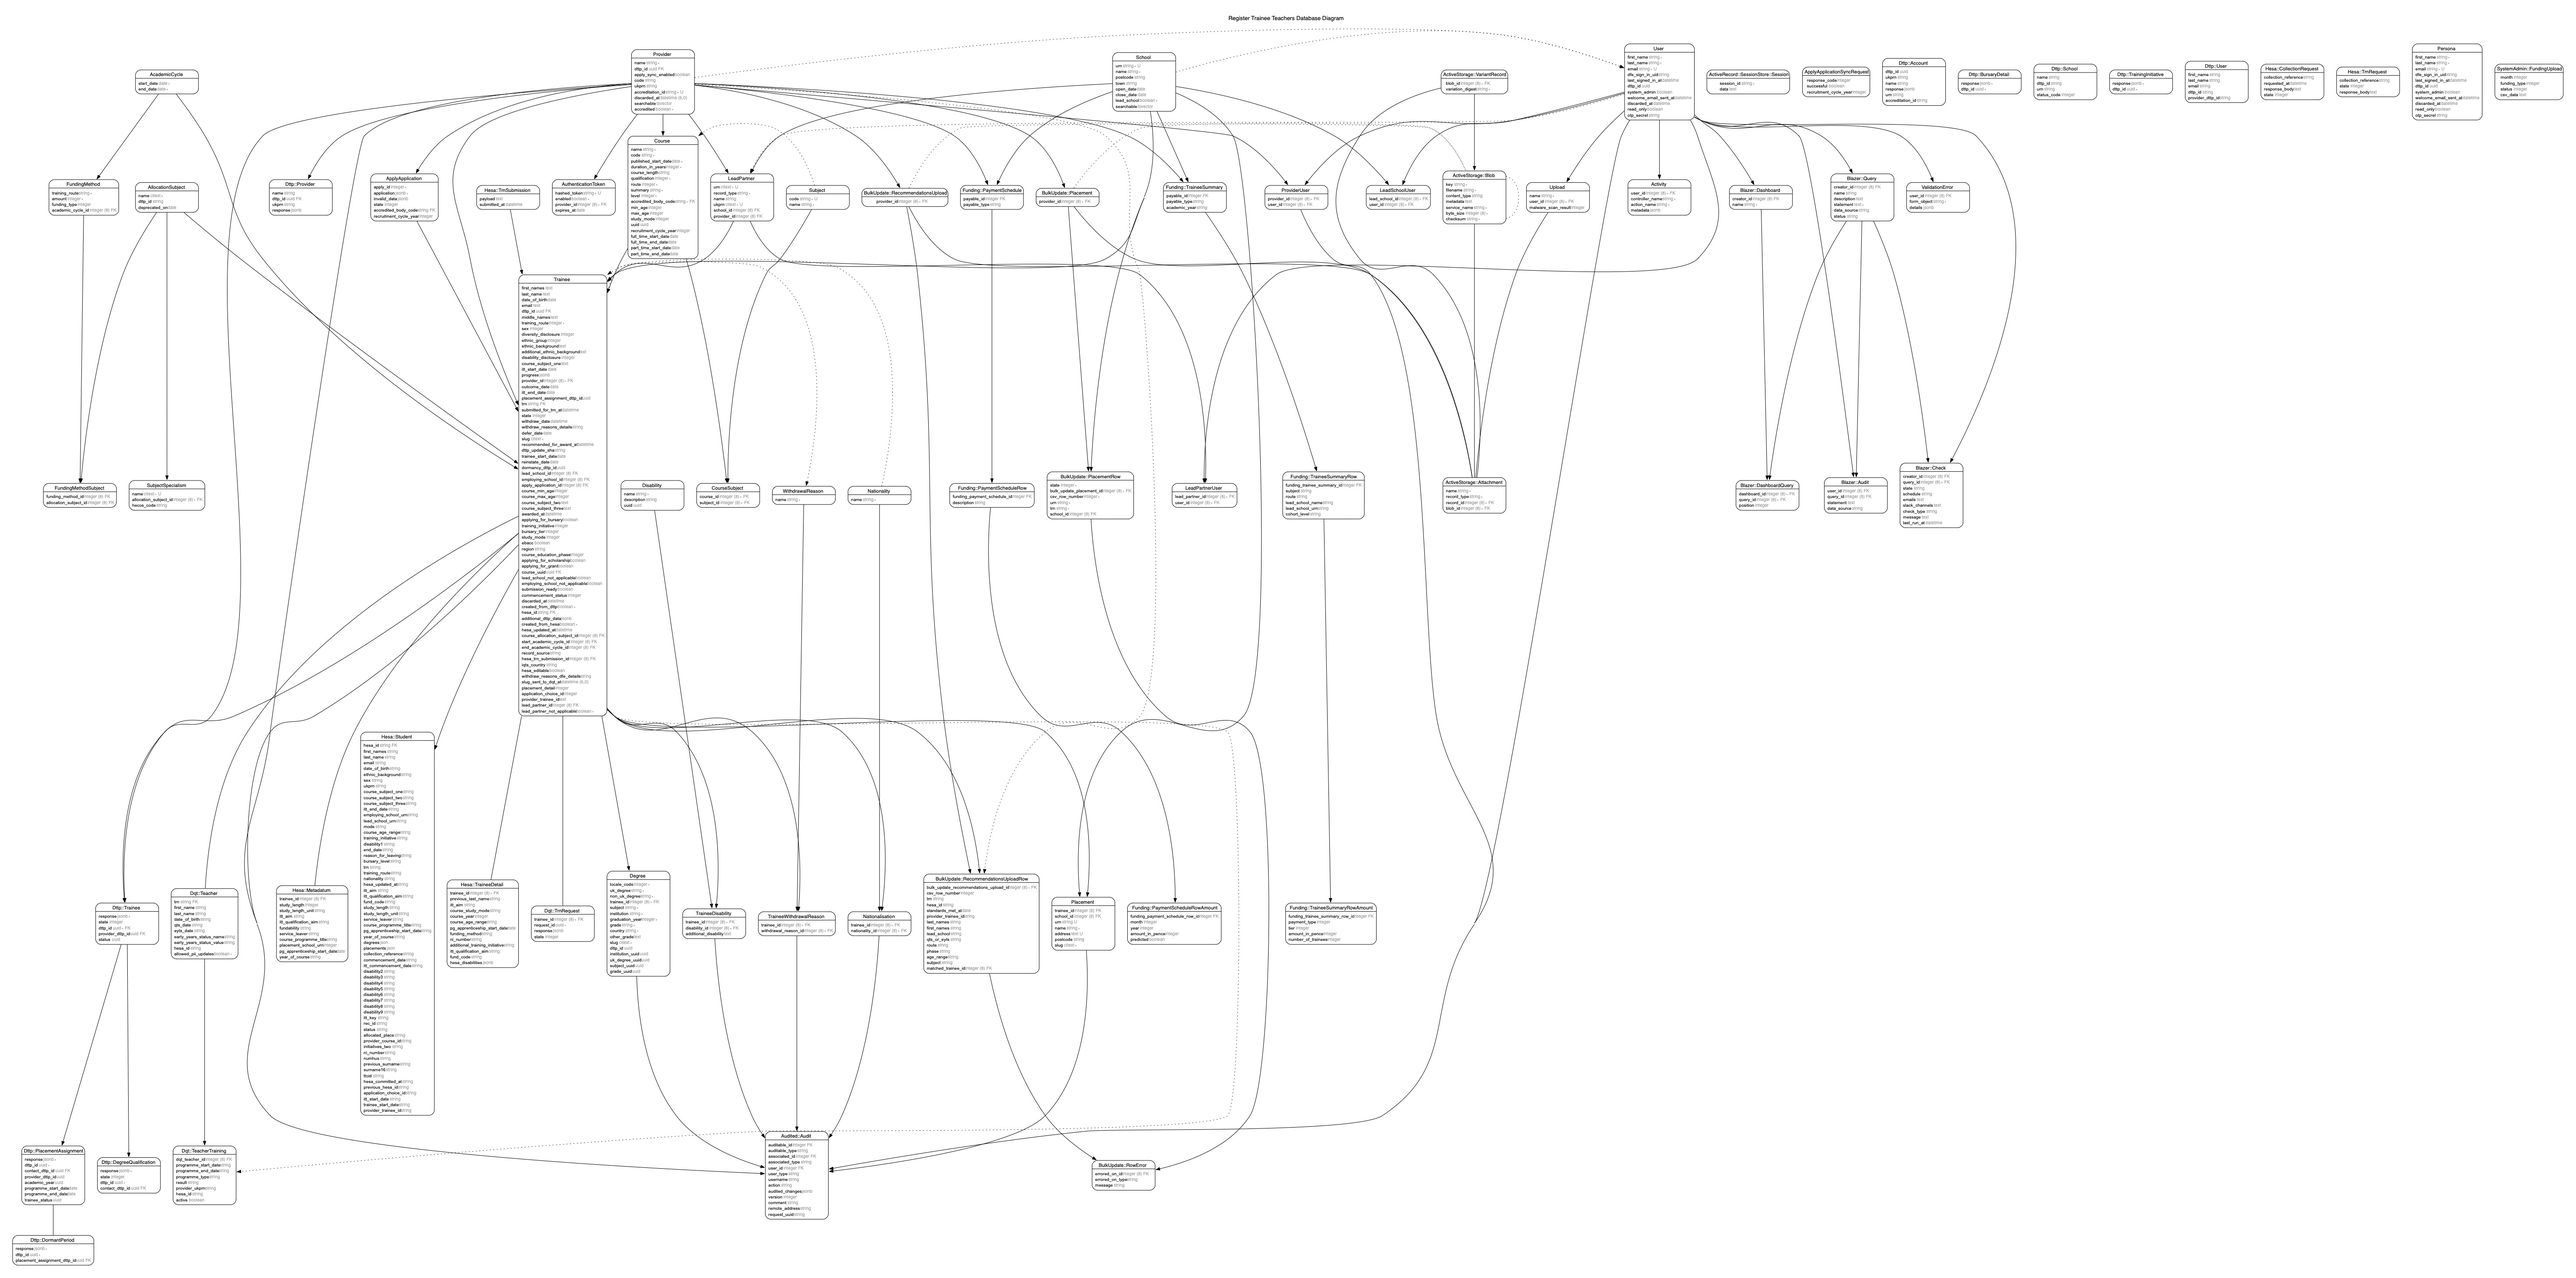
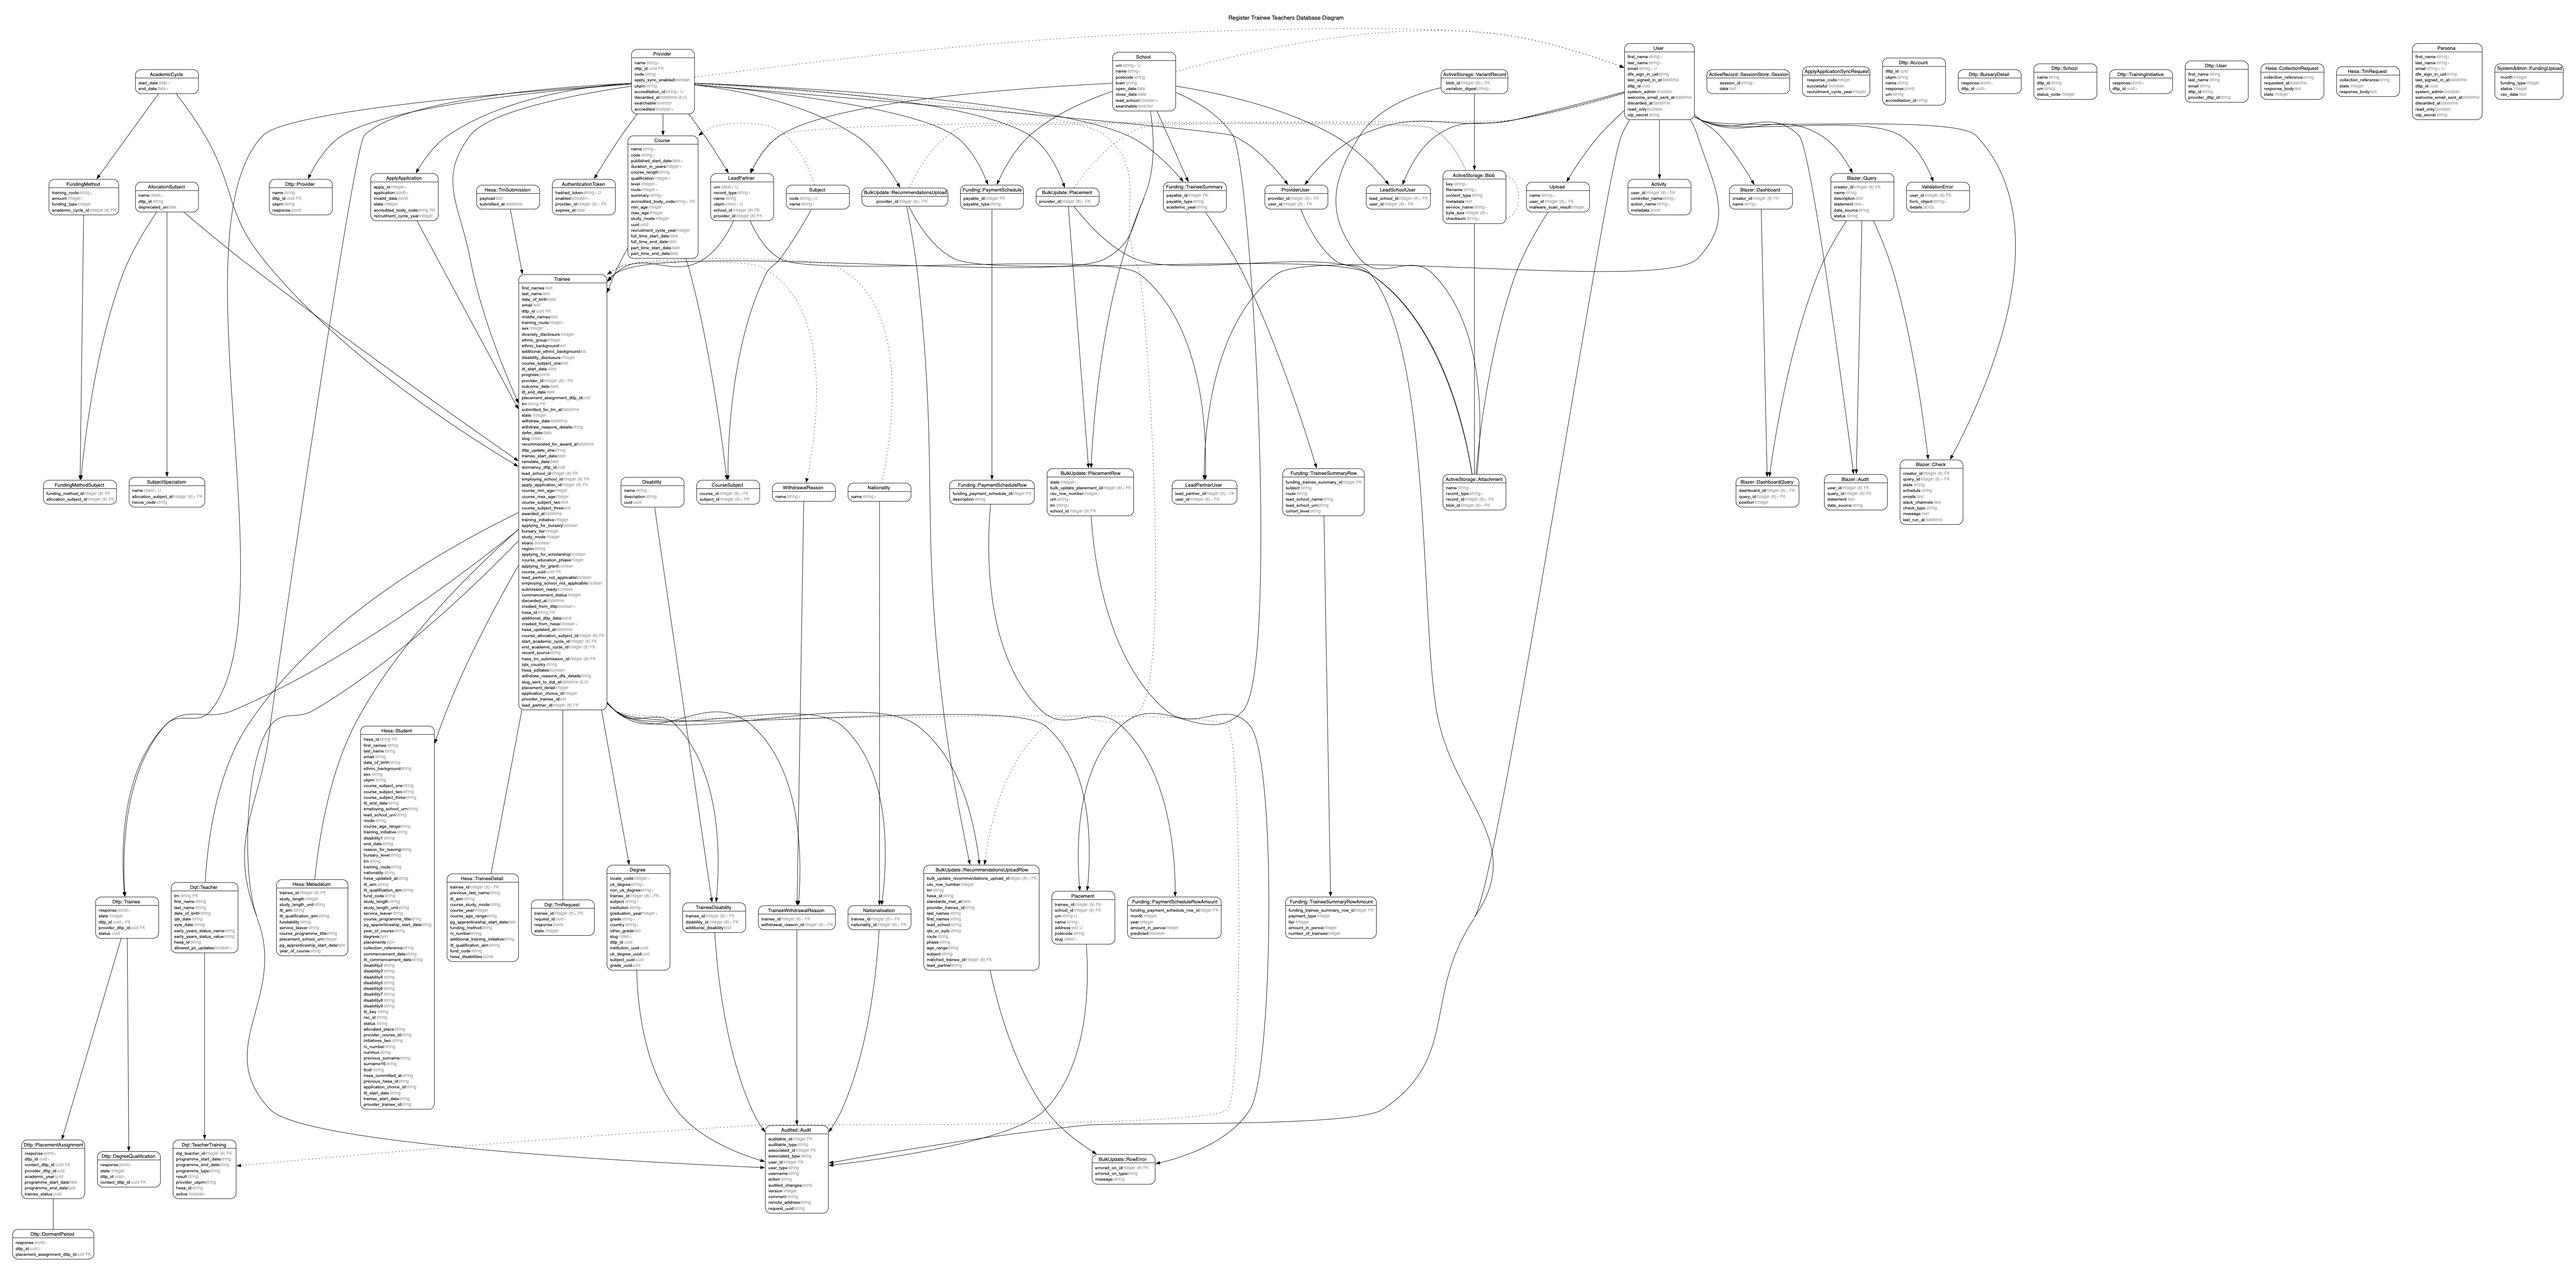
Add lead_partner column to RecommendationsUploadRows
This is added alongside the lead_school column for now, so that both can be kept in sync for a time, until lead_school can be dropped.

diff --git a/db/schema.rb b/db/schema.rb
@@ -225,6 +225,7 @@ ActiveRecord::Schema[7.1].define(version: 2024_07_19_095753) do
     t.string "age_range"
     t.string "subject"
     t.bigint "matched_trainee_id"
+    t.string "lead_partner"
     t.index ["bulk_update_recommendations_upload_id"], name: "idx_bu_ru_rows_on_bu_recommendations_upload_id"
     t.index ["matched_trainee_id"], name: "idx_bu_recommendations_upload_rows_on_matched_trainee_id"
   end

diff --git a/db/migrate/20240812144711_add_lead_partner_to_bulk_update_recommendations_upload_rows.rb b/db/migrate/20240812144711_add_lead_partner_to_bulk_update_recommendations_upload_rows.rb
@@ -1,0 +1,5 @@
+class AddLeadPartnerToBulkUpdateRecommendationsUploadRows < ActiveRecord::Migration[7.1]
+  def change
+    add_column :bulk_update_recommendations_upload_rows, :lead_partner, :string
+  end
+end
